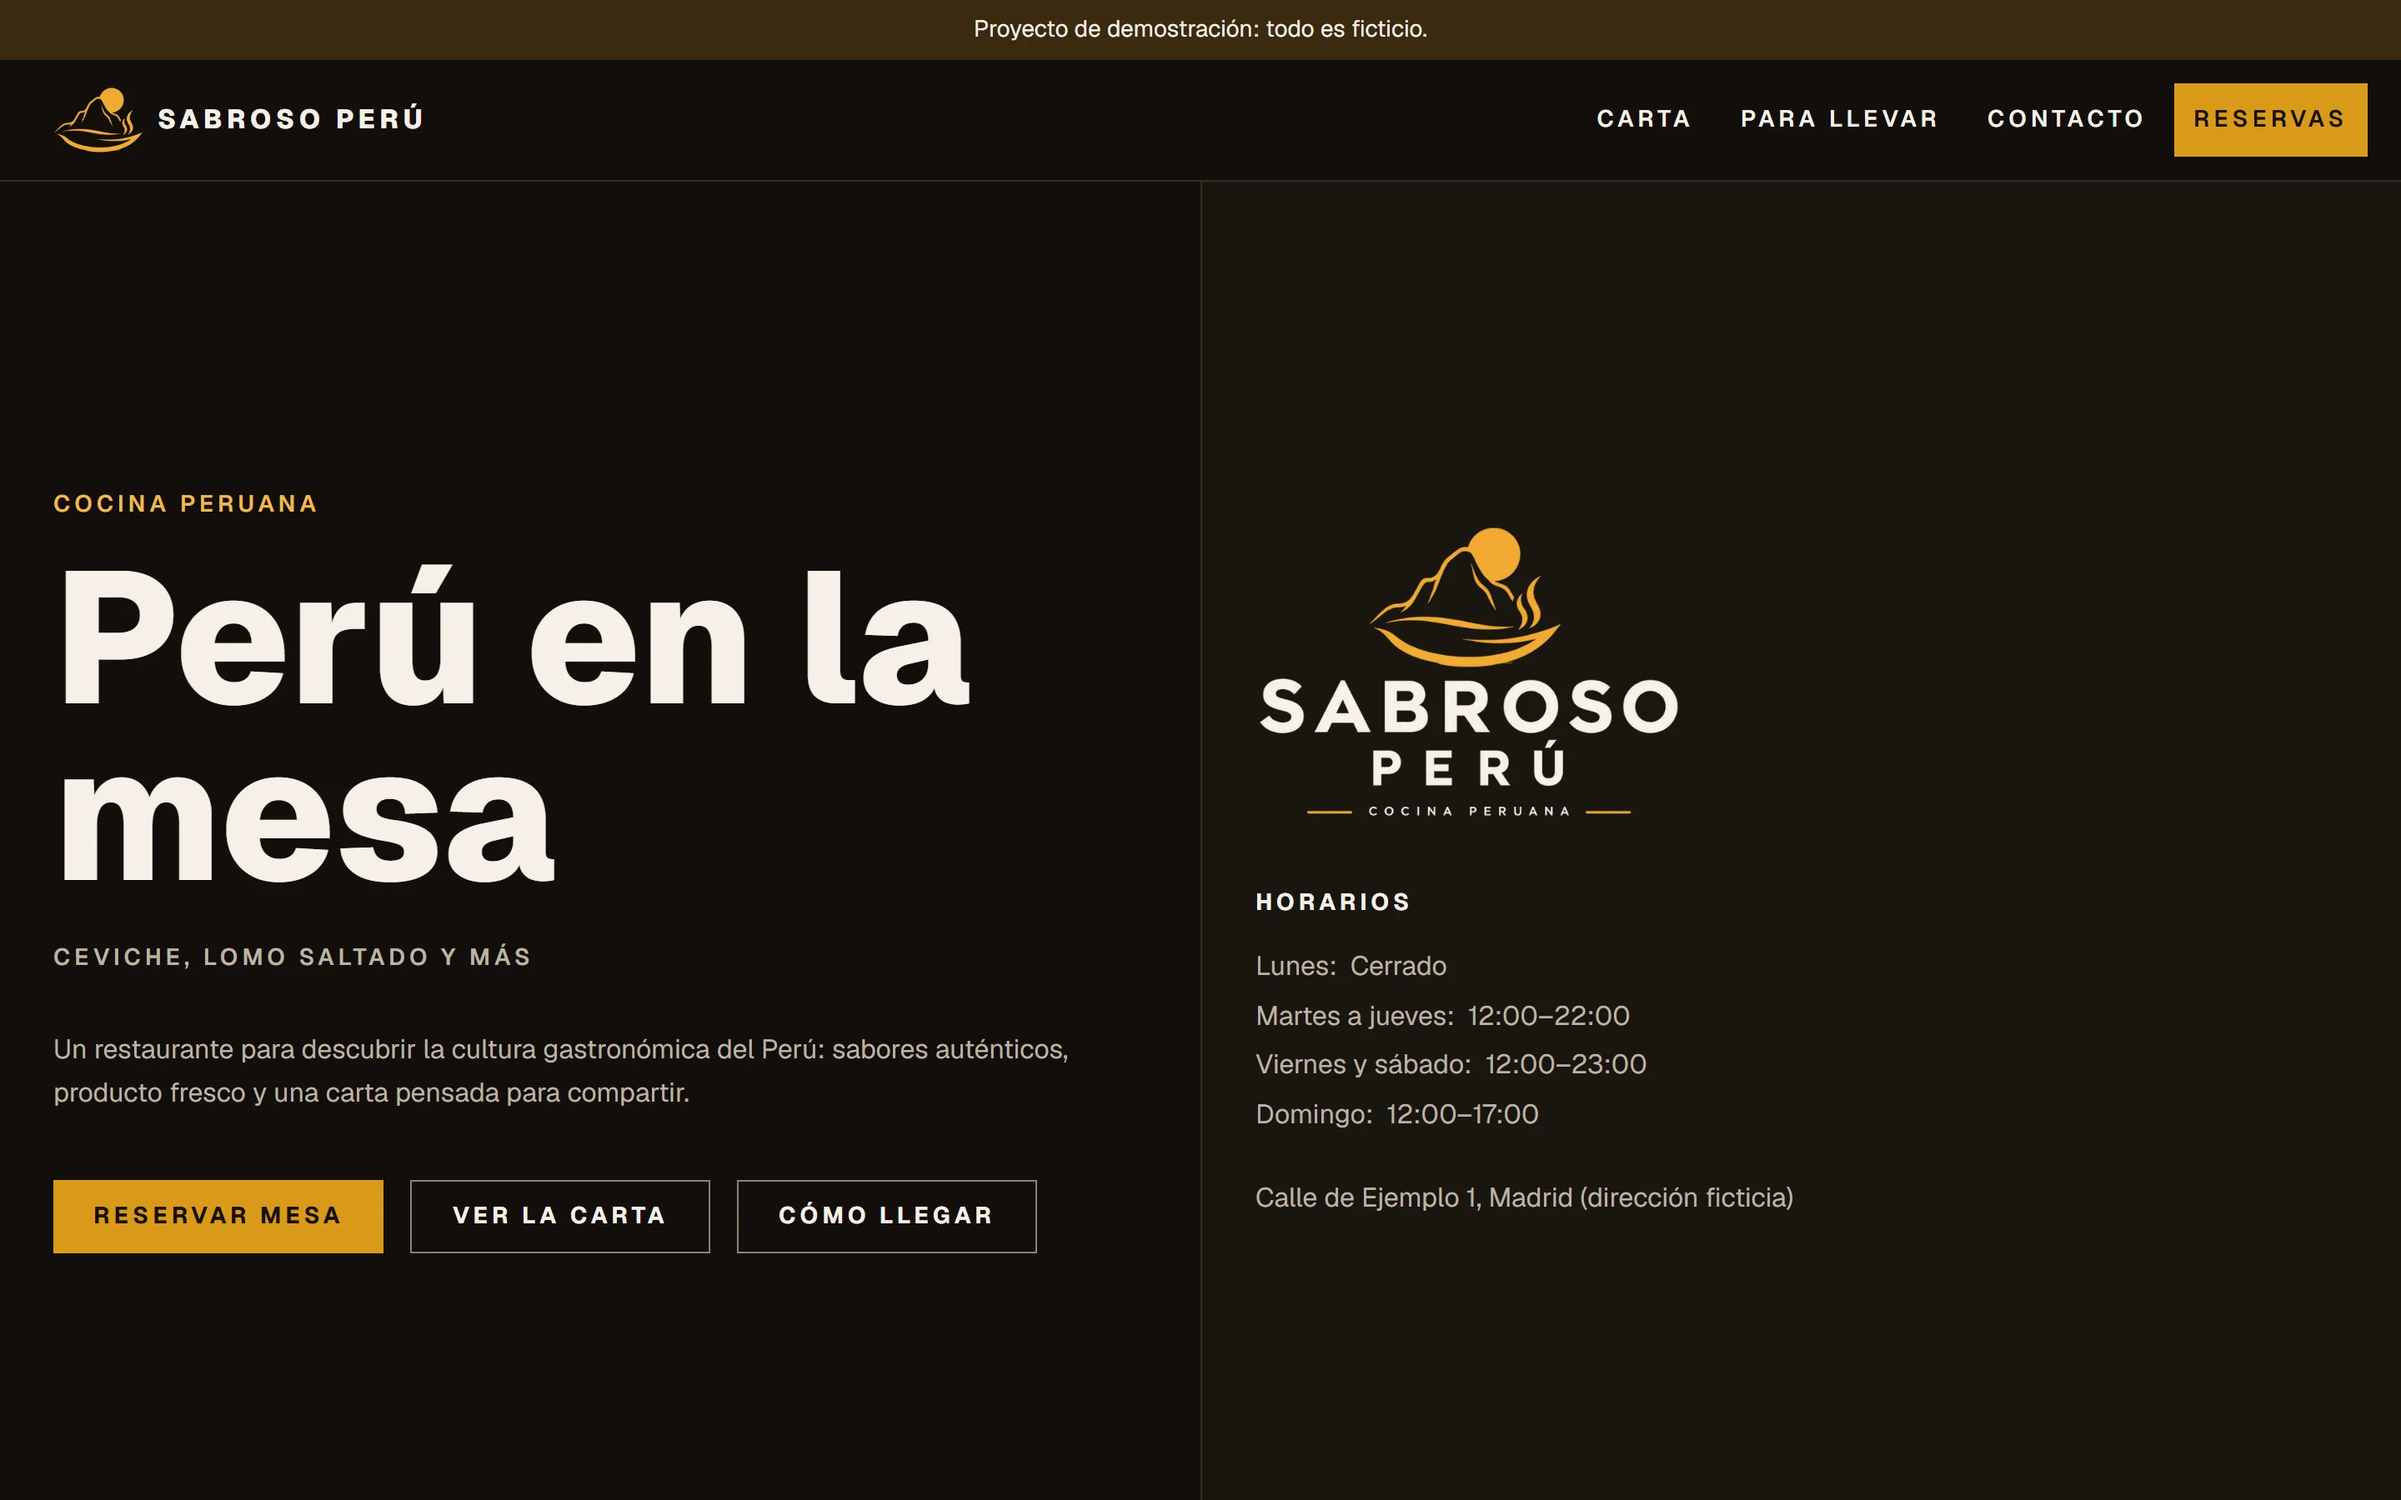
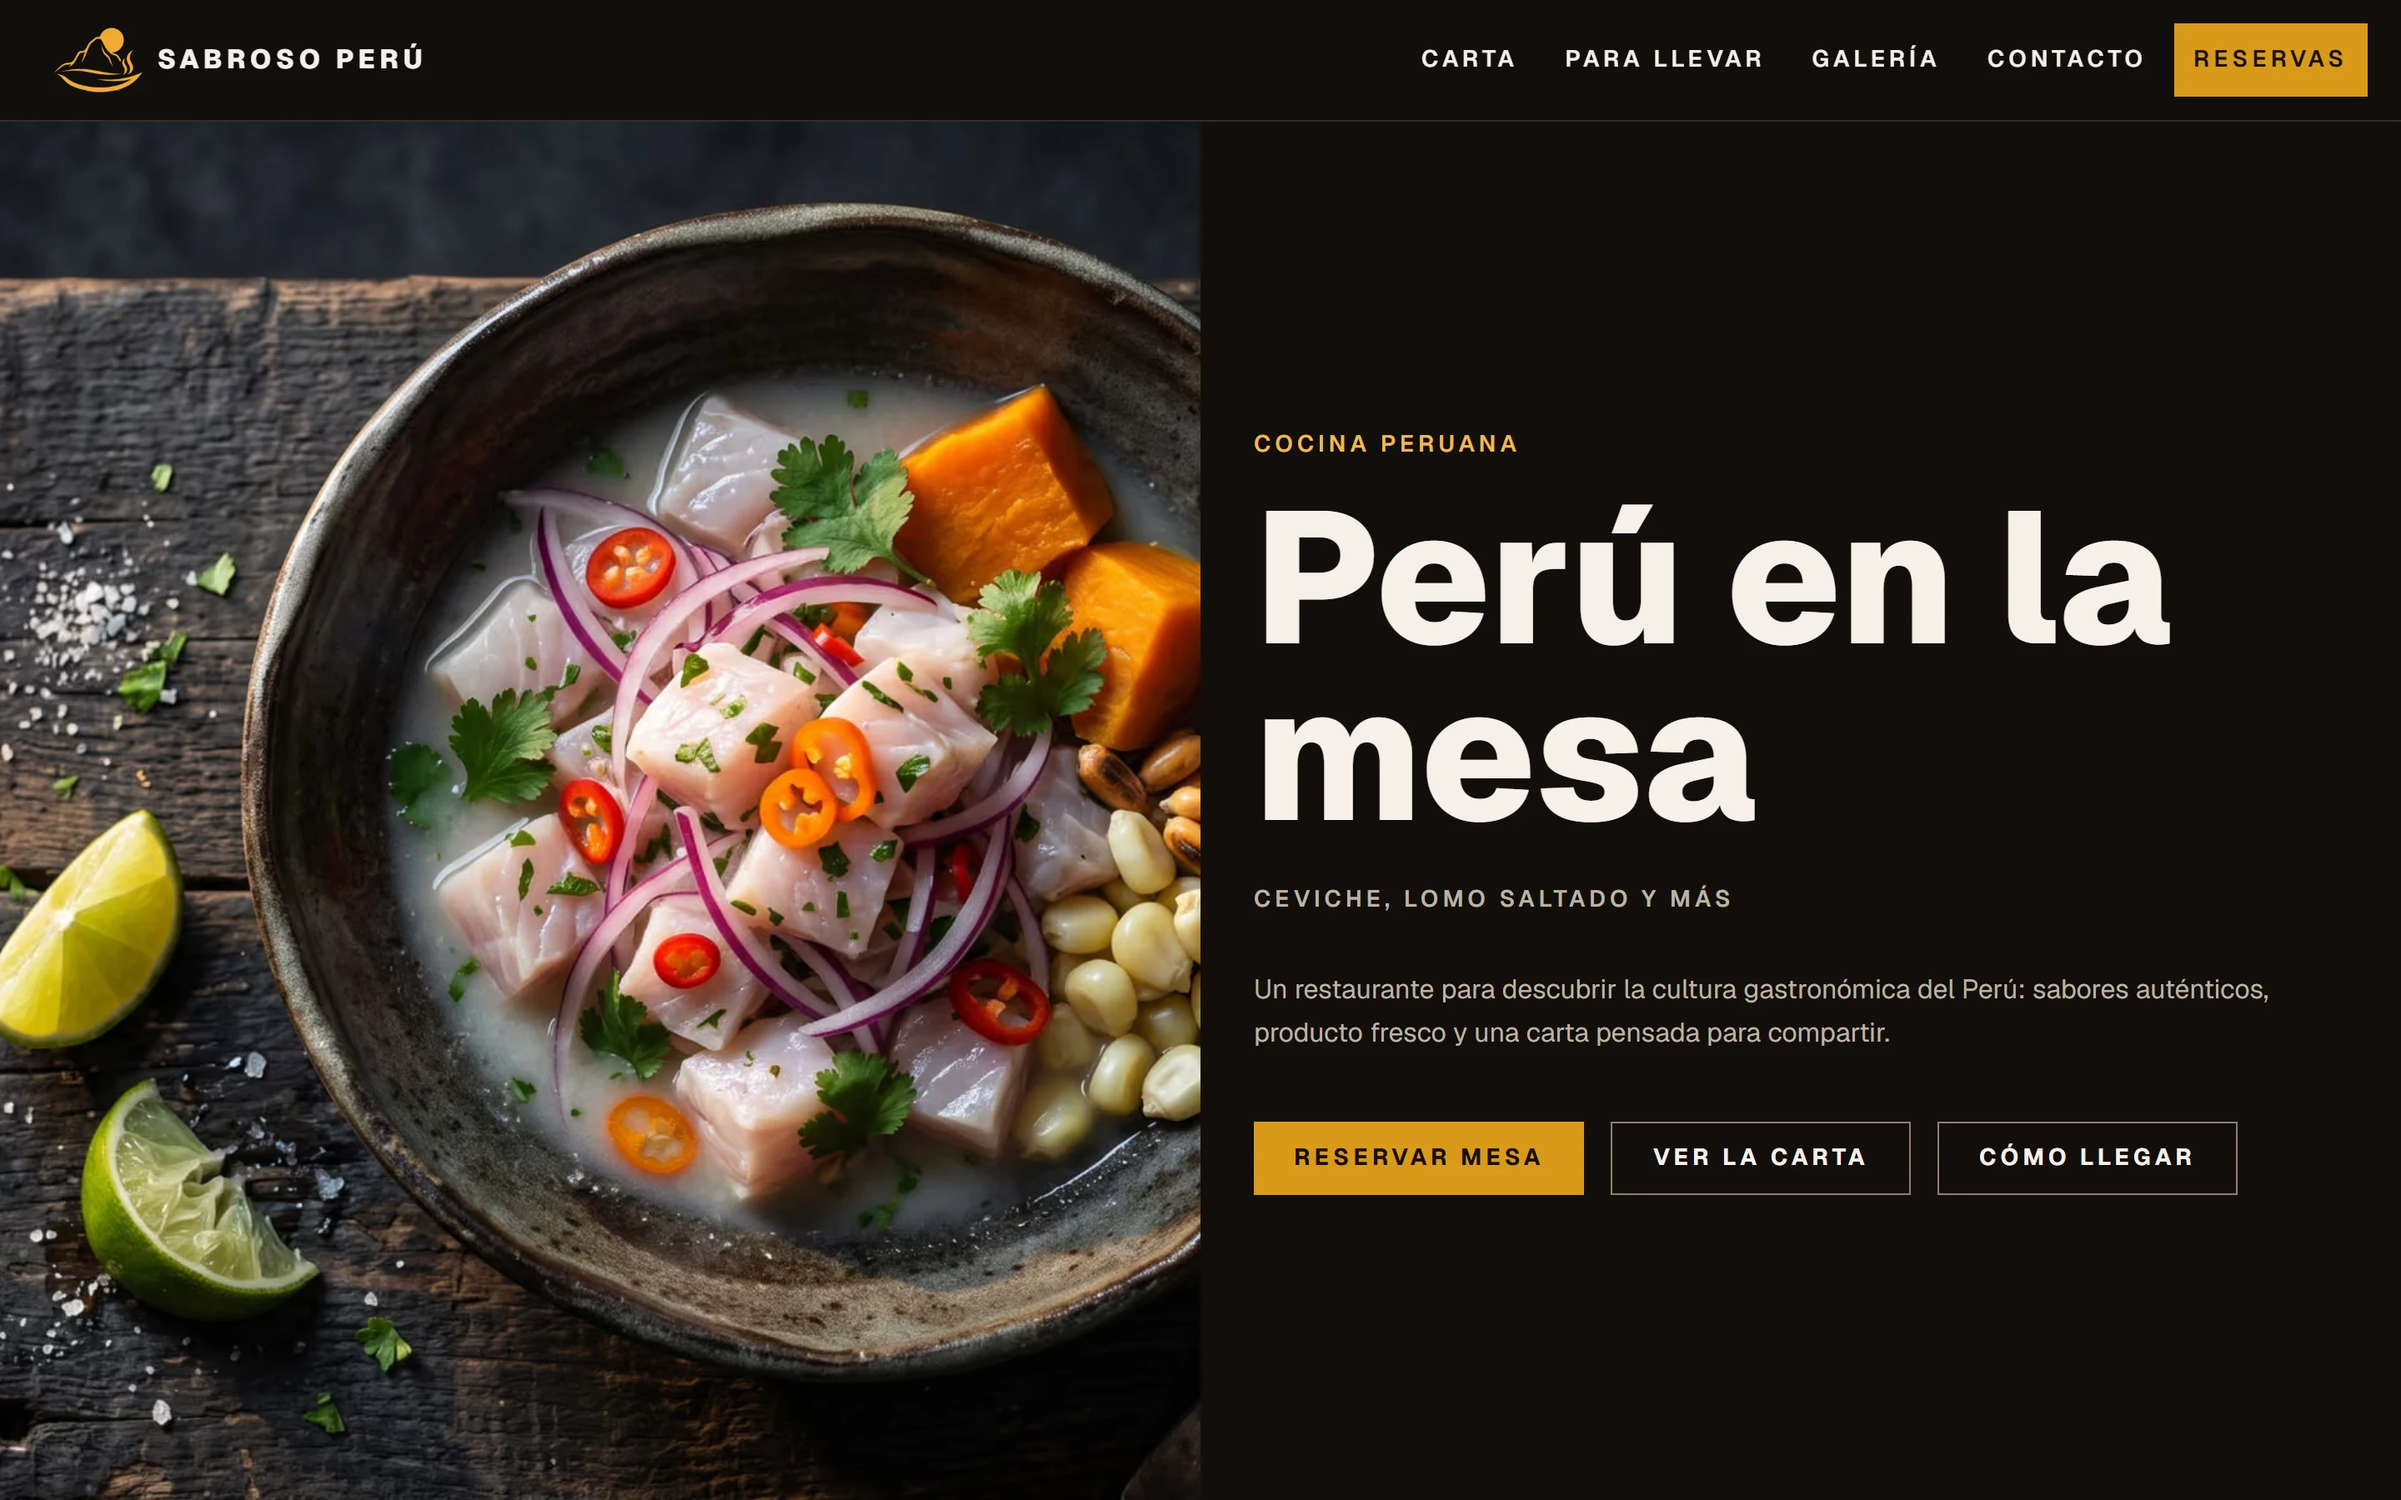
chore: regenerar capturas de Sabroso Perú sin la franja de demostración

diff --git a/scripts/capture-screenshots.ts b/scripts/capture-screenshots.ts
@@ -10,7 +10,7 @@ import sharp from 'sharp';
  *
  * Zona F: solo la interfaz (partidos en vivo, cuotas y boleto). Nunca el hero ni las promociones
  * con jugadores, escudos o patrocinadores. Finanzas: modo demo, con datos de ejemplo.
- * Sabroso Perú: la portada, con la franja de demostración visible.
+ * Sabroso Perú: la portada.
  */
 const root = new URL('../src/content/work/', import.meta.url);
 
